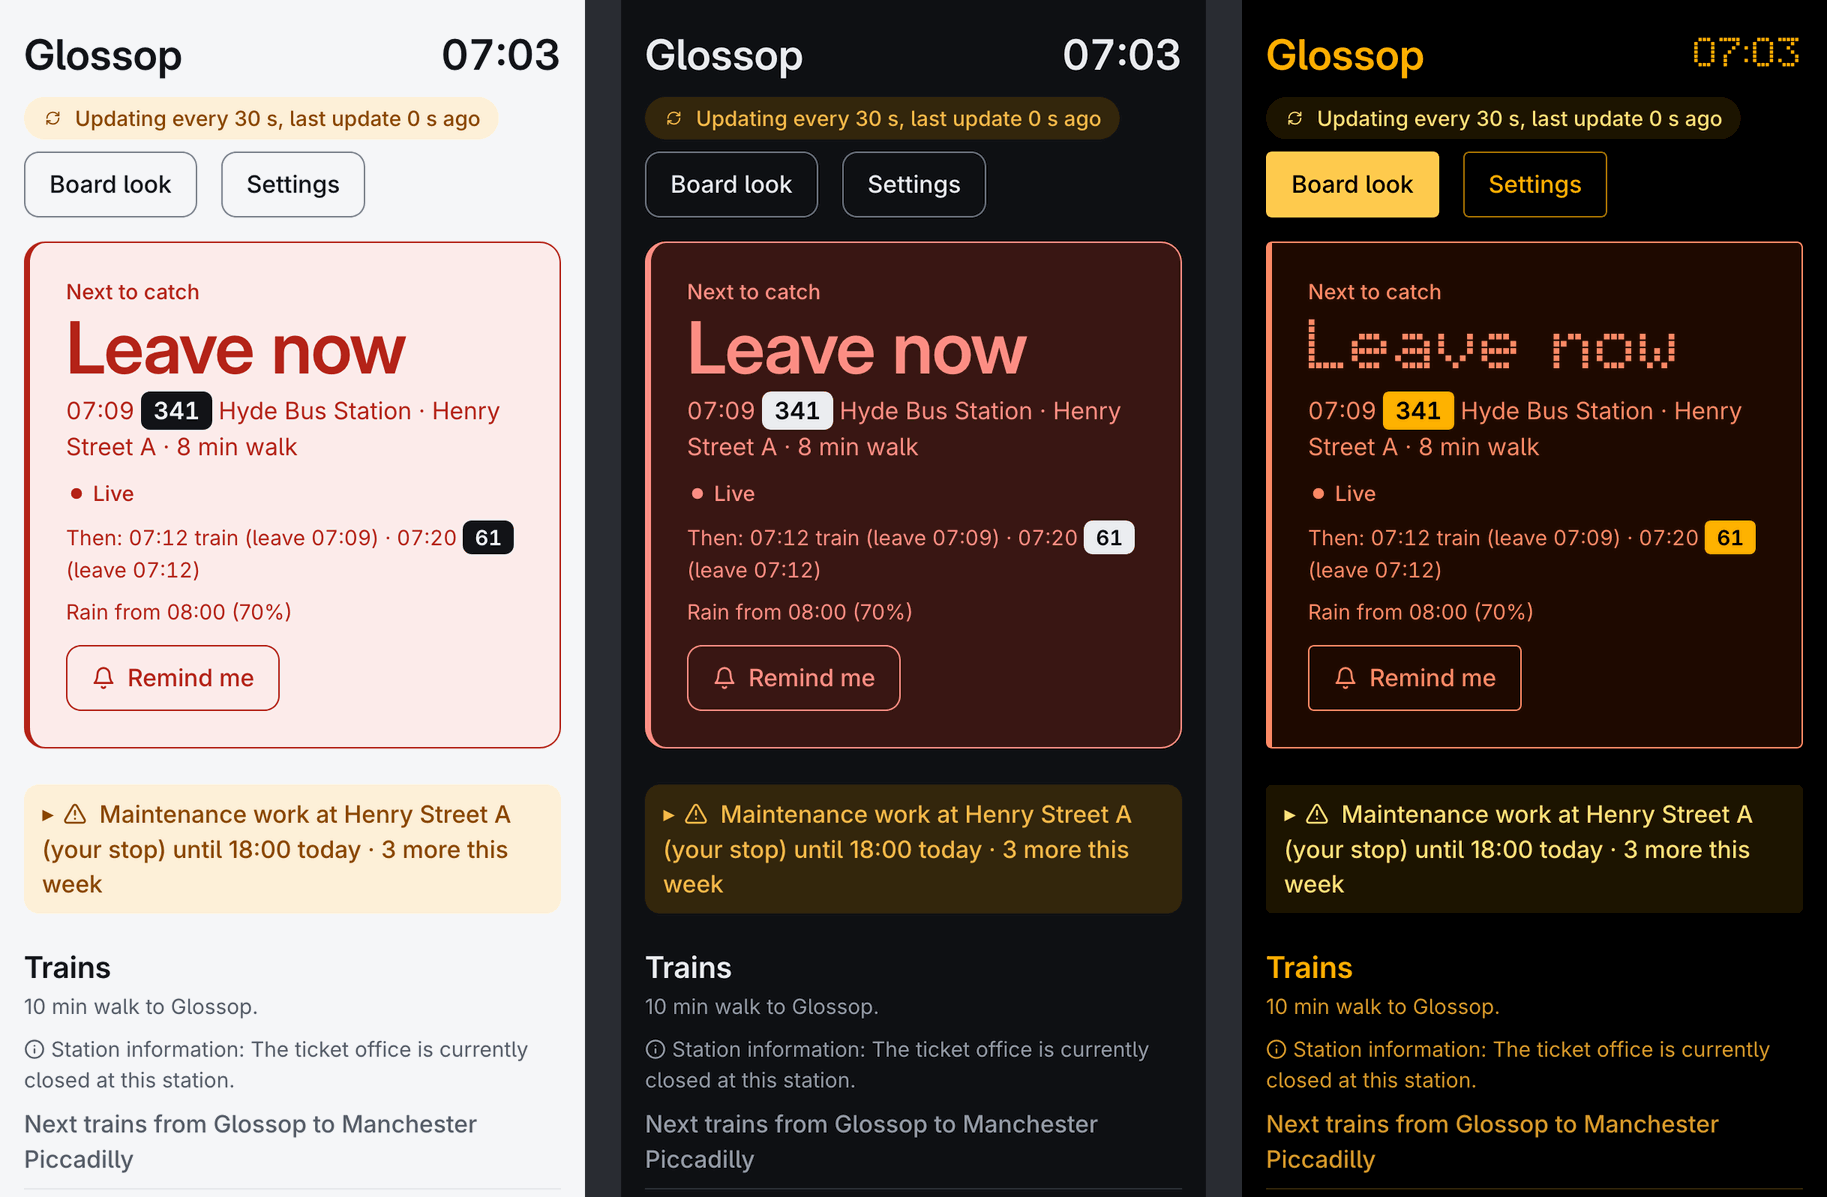
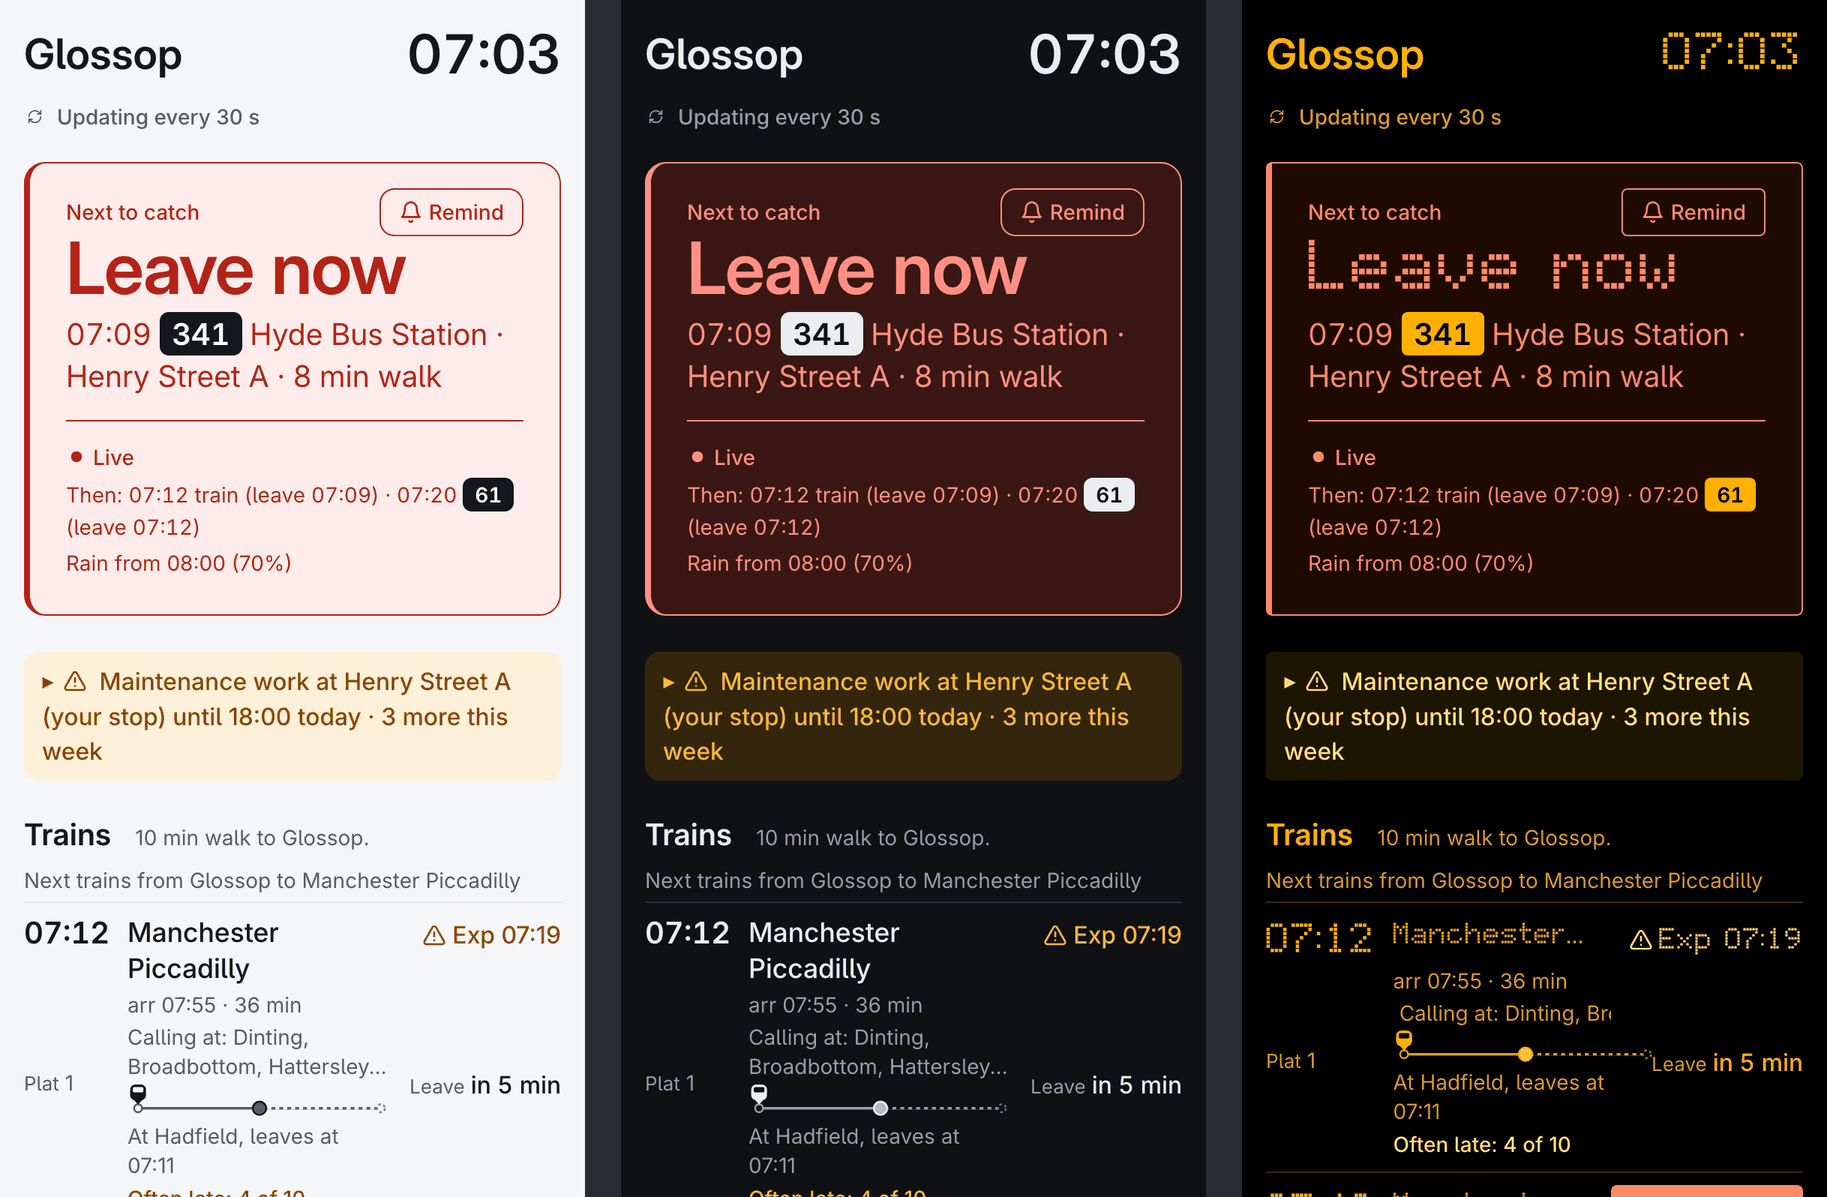
docs: retake the phone looks and the wall tablet's night clock
Both still showed the dashboard before the design pass: the Board look
button and the old status line. The phone picture is taken in the
tool's phone-sized frame, each look at the same minute.

diff --git a/README.md b/README.md
@@ -45,7 +45,7 @@ Where there is room, the line runs across the page with each train placed on it:
 
 Light, dark, the amber Dot matrix look, the white and yellow TFT look or the Split-flap look, at any size from a phone to a wall tablet (`/?kiosk`):
 
-![The dashboard on a phone in the light look, the dark look and the amber Dot matrix look](docs/images/dashboard-looks.png)
+![The dashboard on a phone at 07:03, Leave now for the 07:09 341 bus: the Standard look, light and dark, and the amber Dot matrix look](docs/images/dashboard-looks.png)
 
 ## The board
 
